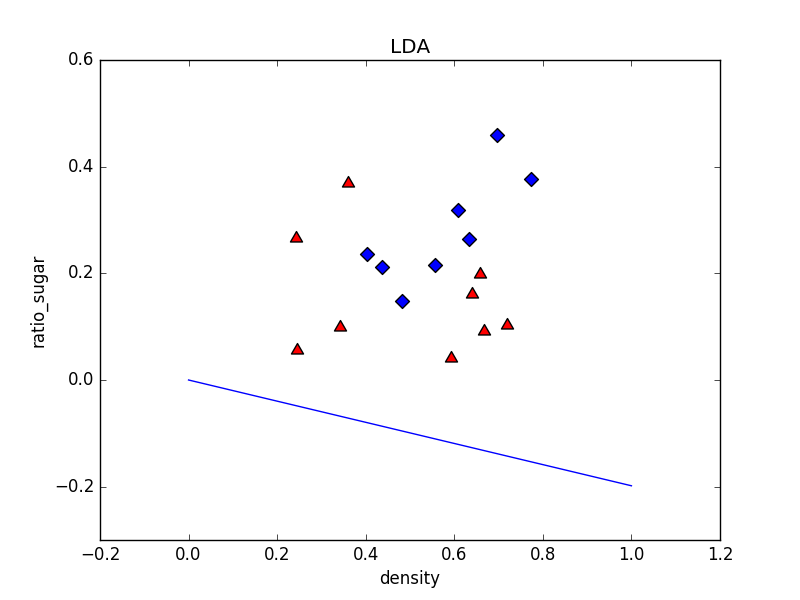
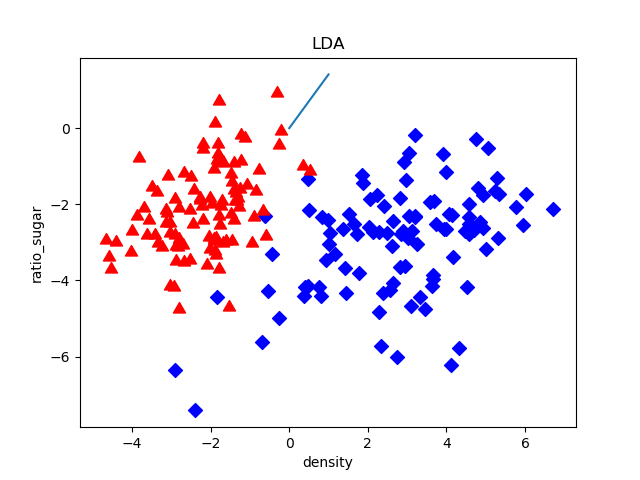
fix bugs

diff --git a/LinearModel/LDA/LDA.py b/LinearModel/LDA/LDA.py
@@ -1,13 +1,12 @@
 #####################################################
-#   coding: gbk
 #
-#   线性判别分析 ( Linear Discriminant Analysis )
+#   Linear Discriminant Analysis
 #
-#   机器学习 周志华 清华大学出版社
+#   Machine Learning , Zhou Zhiwei
 #
-#   第3章 线性模型 习题3.5
+#   Chapter 3. Linear model, exercise 3.5
 #
-#   目标: 实现线性判别分析, 并给出西瓜数据集 3.0 alpha 上的结果
+#   Target: Implement LDA, and test on watermelon dataset 3.0 alpha
 #
 #   Writen by Jarvis (zjw.math@qq.com)
 #
@@ -16,66 +15,91 @@
 
 import numpy as np
 import matplotlib.pylab as plt
+from sklearn.discriminant_analysis import LinearDiscriminantAnalysis
+
+np.random.seed(4325)
 
 
-def load_data(file_path, usecols, delim='\t', dtype='float', skiprows=0):
-    ''' 
-    =================== 读取数据 ==================
-    输入:
-        file_path   数据文件的路径
-        usecols     读取的列号
-        delim       数据分隔符, 默认为 '\t'
-        dtype       数据类型, 默认为 'float'
-        skiprows    开头跳过的行数, 默认不跳行
-    输出:
-        data        读取到的数据作为二维矩阵返回
-    ============================================
-    '''
-    data = np.loadtxt(file_path, delimiter=delim, usecols=usecols, dtype=dtype, skiprows=skiprows)
+def fix_data(number=50):
+    mean = np.array([[-2.96308878,  2.94349617],
+                     [-2.03249244, -2.0312322 ]])
+    cov = np.array([[[2.52722827, 1.39863059],
+                     [1.39863059, 3.14037231]],
+                    [[1.3235537,  0.52337228],
+                     [0.52337228, 1.23186163]]])
+    data = {}
+    for i in range(2):
+        data[i] = np.random.multivariate_normal(mean[i], cov[i], size=number * (i + 1))
     return data
 
+
+def toy_data(classes=2, number=50):
+    mean = np.random.uniform(-10, 10, size=(classes, 2))
+    print("mean:", mean)
+    # Positive-definite
+    t = np.random.rand(classes, 2, 2)
+    t = t @ t.transpose(0, 2, 1)
+    cov = t + t.transpose(0, 2, 1)
+    cov[:, [1, 0], [0, 1]] /= 2
+    print("cov:", cov)
+
+    data = {}
+    for i in range(classes):
+        data[i] = np.random.multivariate_normal(mean[i], cov[i], size=number)
+    return data
+
+
 def LDA(X1, X2):
-    '''
-    ================== 线性判别分析 ==================
-    输入:
-        X1  样例数据集 正例
-        X2  样例数据集 反例
-    输出:
-        w   投影直线的系数
-    =================================================
-    '''
-    
-    # np.cov把每行当作一个变量
-    Sw = np.cov(X1.T) * (X1.shape[0] - 1) + np.cov(X2.T) * (X2.shape[0] - 1)
-    # 计算判别系数
-    w = np.dot(np.linalg.inv(Sw), np.mean(X2, axis=0) - np.mean(X1, axis=0))
+    """
+    Parameters
+    ----------
+    X1: np.ndarray
+        sample dataset, positive
+    X2: np.ndarray
+        sample dataset, negative
+
+    Returns
+    -------
+    w: np.ndarray
+        coefficient
+    """
+    # np.cov treats rows as variables and columns as observations
+    Sw = np.cov(X1, rowvar=False) * (X1.shape[0] - 1) + np.cov(X2, rowvar=False) * (X2.shape[0] - 1)
+    # compute inverse by svd decomposition
+    u, s, vh = np.linalg.svd(Sw)
+    Sw_inv = vh.T @ np.diag(1. / s) @ u.T
+
+    w = Sw_inv.dot(X1.mean(axis=0) - X2.mean(axis=0))
     return w
 
 
-def plot_wm(X1, X2, w):
-    ''' 绘制西瓜数据散点图以及投影直线 '''
-    plt.scatter(X1[:,0], X1[:,1], s=100, marker=(4, 0), facecolors="B")
-    plt.scatter(X2[:,0], X2[:,1], s=100, marker=(3, 0), facecolors="R")
-    x = np.linspace(0, 1, 20)
-    y = -w[0] * x / w[1]    # w[0]*x + w[1]*y = 0  <==  W^T.X = 0
+def plot_wm(X1, X2, w, w2):
+    plt.scatter(X1[:, 1], X1[:, 0], s=100, marker=(4, 0), facecolors="b")
+    plt.scatter(X2[:, 1], X2[:, 0], s=100, marker=(3, 0), facecolors="r")
+    x = np.linspace(-8, 8, 2)
+    y = w[1] / w[0] * x    # w[0]*y + w[1]*x = 0  <==  W^T.X = 0
+    plt.plot(x, y)
+    y = w2[1] / w2[0] * x    # w[0]*y + w[1]*x = 0  <==  W^T.X = 0
     plt.plot(x, y)
 
-    plt.xlabel('density')
-    plt.ylabel('ratio_sugar')
     plt.title('LDA')
-    plt.savefig("LDA.png")
+    # plt.savefig("LDA.png")
+    plt.axis("square")
     plt.show()
 
 
 def main():
-    data = load_data('../../wm_data.txt', np.arange(1, 4), skiprows=1)
-    X, Y = data[:, 0:2], data[:, 2]
-    Y = Y.astype(np.bool)
-    X1, X2 = X[Y, :], X[~Y, :]
-    w = LDA(X1, X2)
-
-    print("Coefficient: ", w)
-    plot_wm(X1, X2, w)
+    data = fix_data(number=10)
+    # data = toy_data(classes=2, number=100)
+    w2 = LDA(data[0], data[1])
+    lda = LinearDiscriminantAnalysis()
+    lda.fit(np.r_[data[0], data[1]], np.r_[np.array([0] * len(data[0])), np.array([1] * len(data[1]))])
+    w = lda.coef_[0]
+    print(lda.coef_[0], w2)
+    plot_wm(data[0], data[1], w, w2)
+    # for i, v in data.items():
+    #     plt.scatter(v[:, 1], v[:, 0])
+    # plt.show()
 
 
 if __name__ == "__main__":

diff --git a/README.md b/README.md
@@ -2,10 +2,10 @@
 
 ## Linear Model
 
-## Decision Tree
-
 * LDA
 * Logistic Regression
+
+## Decision Tree
 
 ## kNN
 
